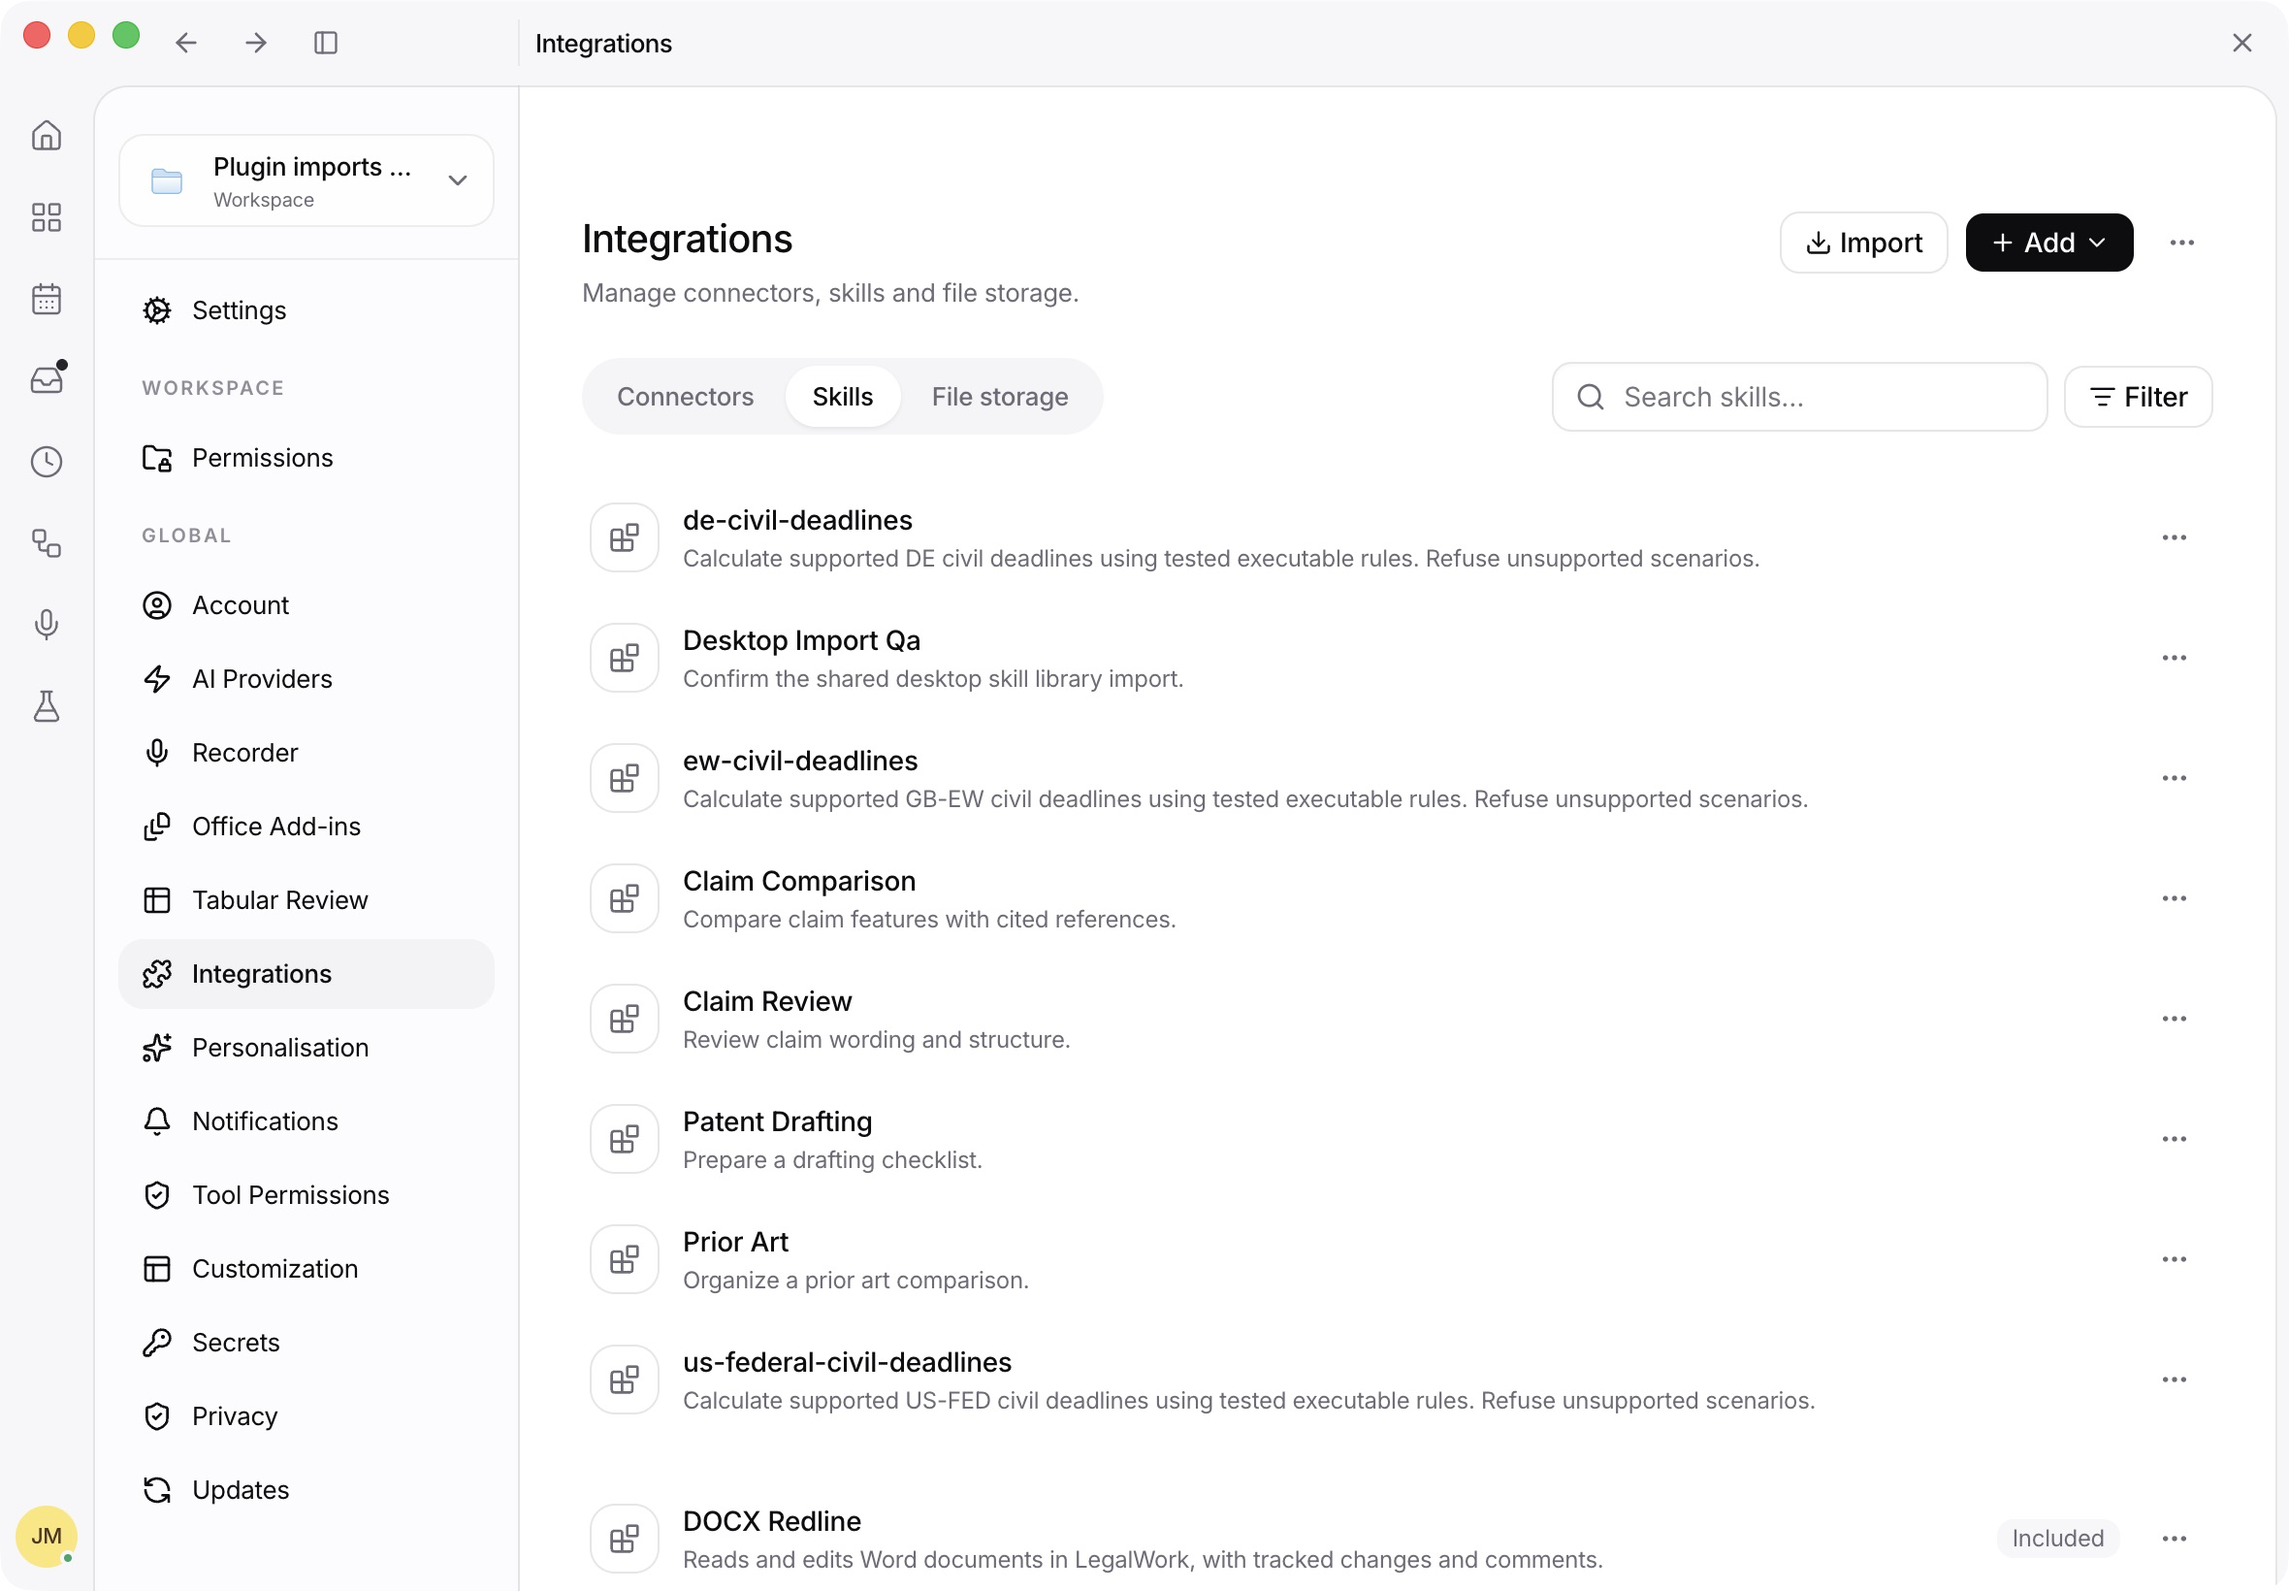
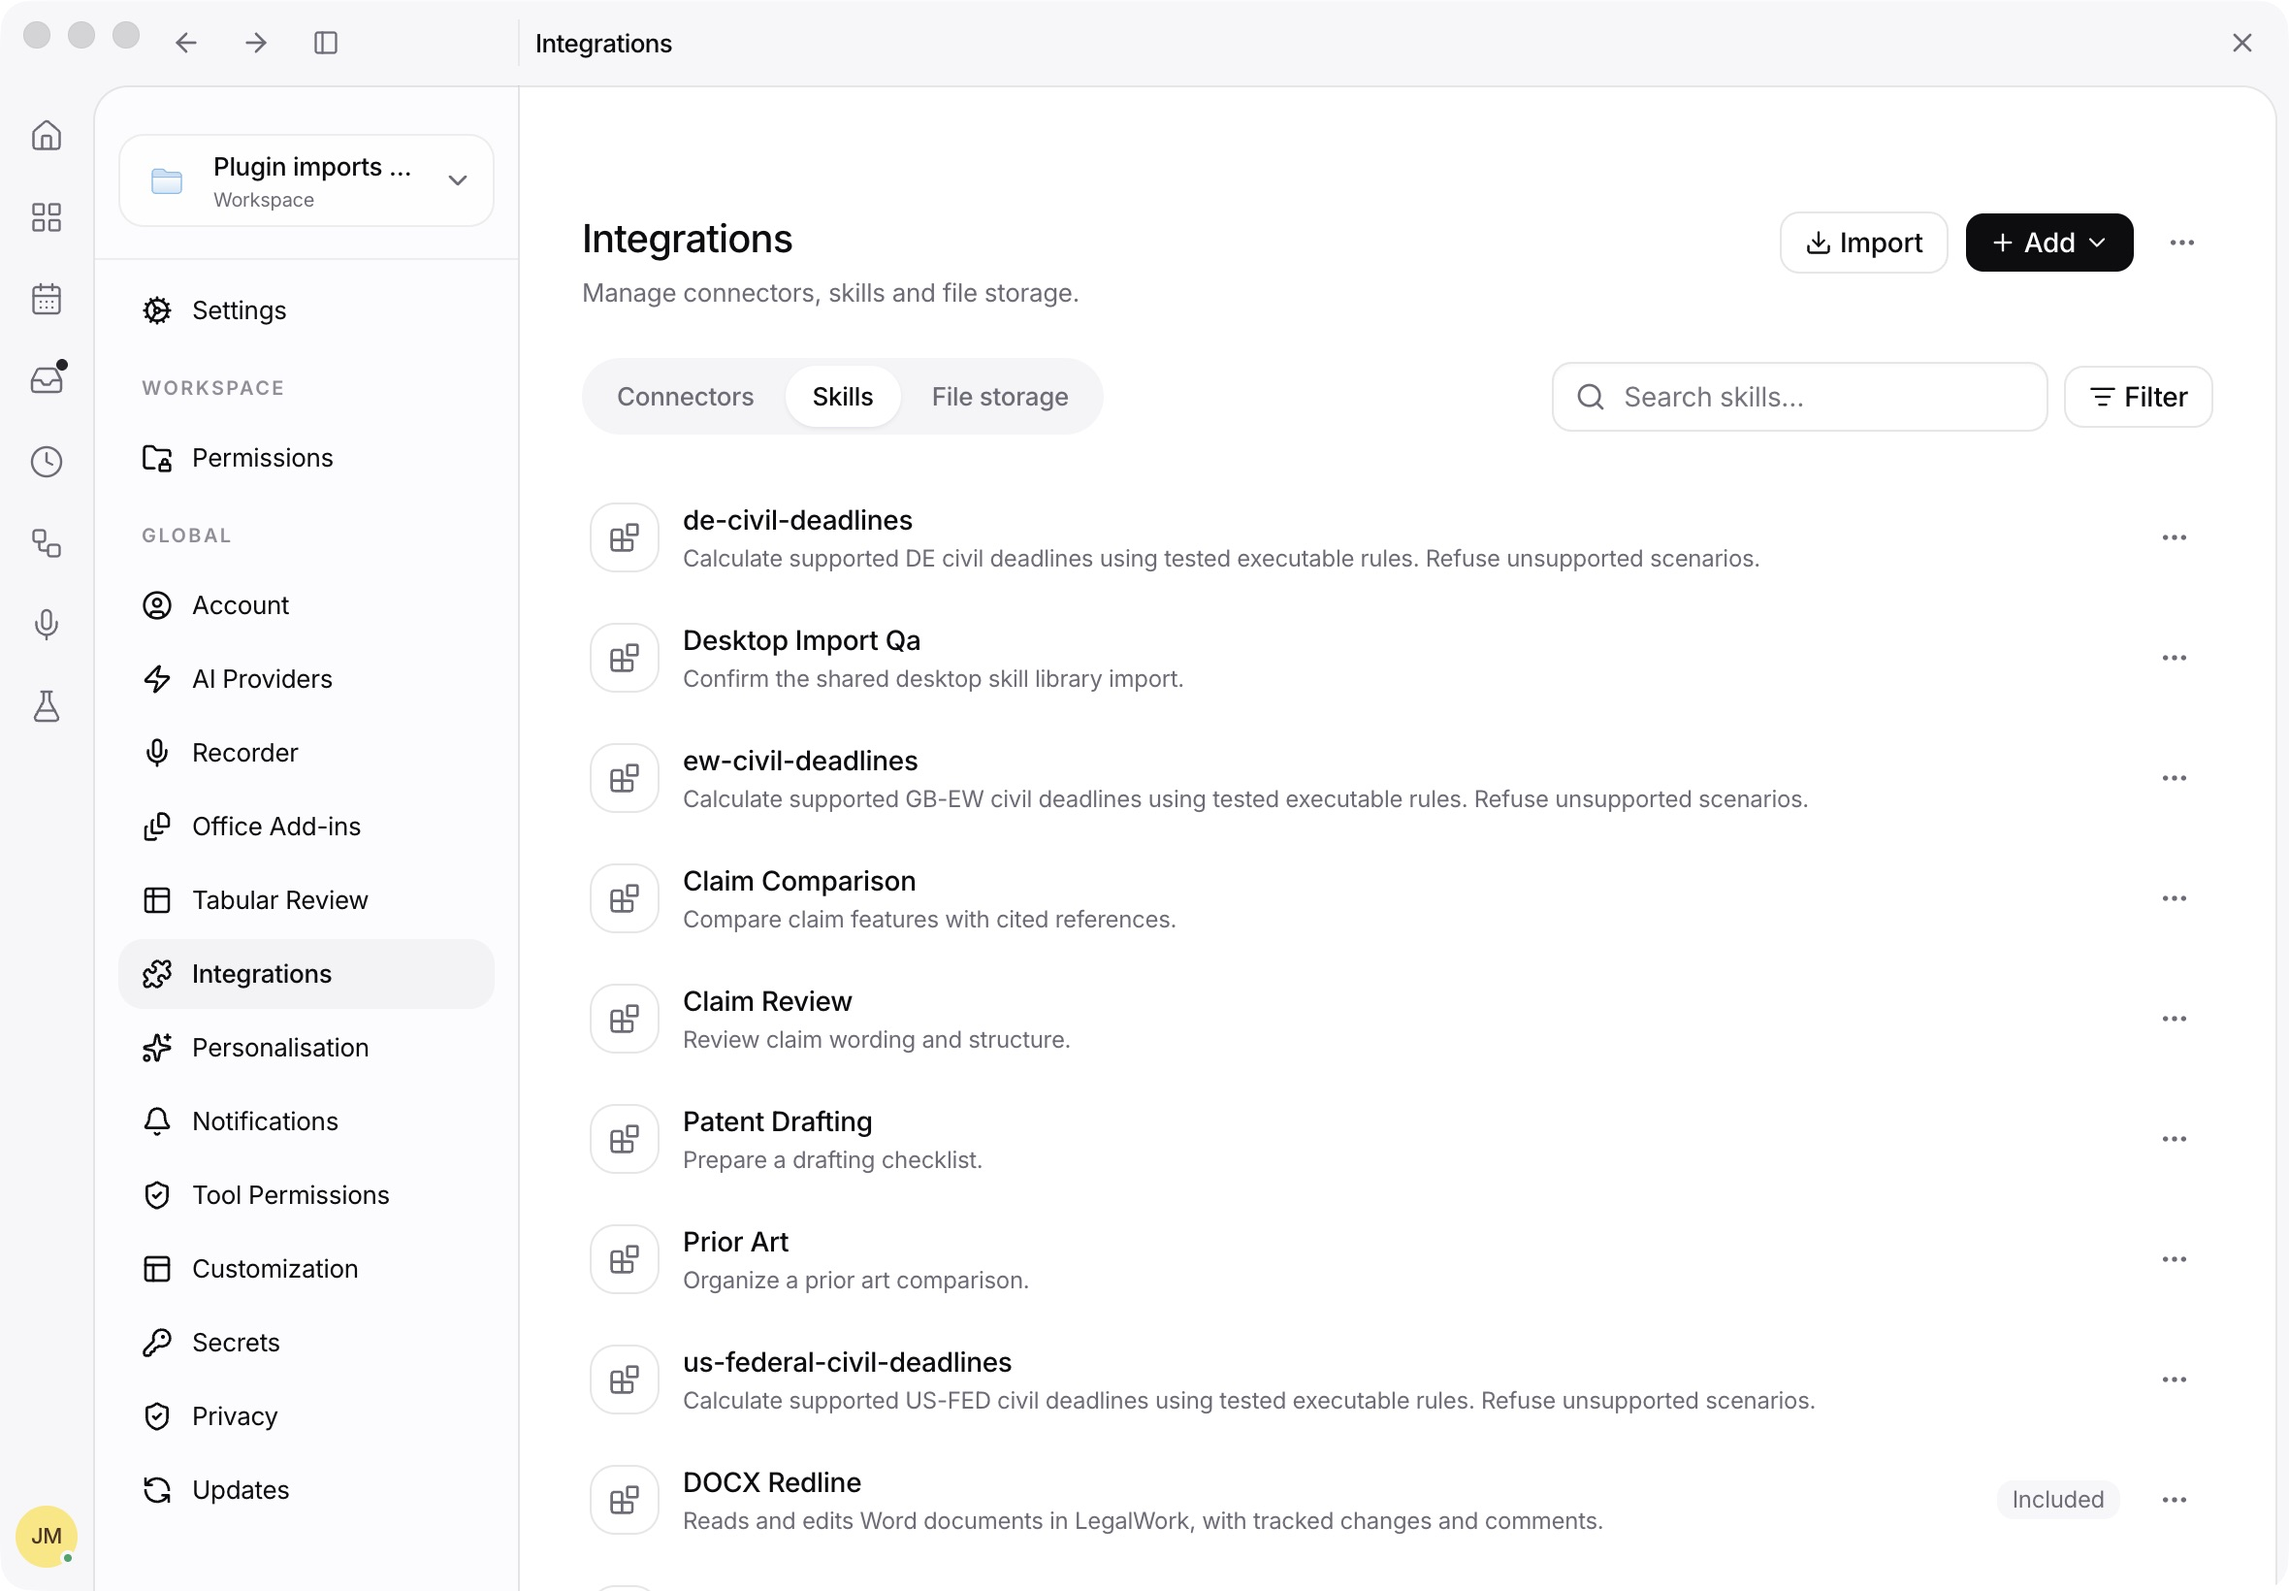
Use consistent spacing across skill library sections

Changed region(s): [[0.2475, 0.9018, 0.6805, 0.9951], [0.0, 0.0, 0.0619, 0.0311], [0.897, 0.9329, 0.928, 0.964]]

diff --git a/apps/app/src/react-app/domains/settings/pages/skills-view.tsx b/apps/app/src/react-app/domains/settings/pages/skills-view.tsx
@@ -656,7 +656,7 @@ export function SkillsView(props: SkillsViewProps) {
   };
 
   return (
-    <section className={isWorkflowsView ? "space-y-8 w-full max-w-5xl" : "space-y-6 w-full max-w-5xl"}>
+    <section className={isWorkflowsView ? "space-y-8 w-full max-w-5xl" : libraryLayout ? "space-y-1 w-full max-w-5xl" : "space-y-6 w-full max-w-5xl"}>
       <div className={isWorkflowsView ? "space-y-7" : "space-y-5"}>
         <div className={libraryLayout ? "contents" : "flex flex-wrap items-start justify-between gap-4"}>
           <div className={libraryLayout ? "hidden" : "min-w-0 flex-1 basis-64"}>

diff --git a/apps/app/src/react-app/domains/settings/pages/hub-download-section.tsx b/apps/app/src/react-app/domains/settings/pages/hub-download-section.tsx
@@ -304,7 +304,7 @@ export function HubDownloadSection({
   }
 
   return (
-    <div className={kind === "workflow" ? "flex h-full min-h-0 flex-col gap-2" : "space-y-2"}>
+    <div className={kind === "workflow" ? "flex h-full min-h-0 flex-col gap-2" : library ? "space-y-1 empty:hidden" : "space-y-2"}>
       {library ? <>
         {listQuery.isLoading ? <p role="status" className="text-sm text-muted-foreground">{t("firm_hub.loading")}</p> : null}
         {listQuery.error ? <p role="alert" className="text-sm text-destructive">{listQuery.error.message}</p> : null}

diff --git a/docs/plugin-imports.md b/docs/plugin-imports.md
@@ -86,6 +86,8 @@ Import, Add and More use the same styles and positions. Add offers Connector, Sk
 
 Rows use the same icon, name, description and action menu. View details comes first, followed by supported Edit, Export and Share actions, then separated Remove. Sharing reviews only the selected item. Optional team membership retains its confirmation, installed team skills retain their read-only resource viewer, and automatic items remain firm-managed. Connector account/enablement controls and storage membership stay in details. Unavailable expand arrows, Ready/Paused labels, the sync indicator and the global project-availability badge are removed. Team empty states consistently say no items have been shared by your firm yet, without extra explanatory paragraphs.
 
+Personal, team and built-in skills use the same row spacing across their list boundaries. The old section margin is removed in the embedded library, and an empty team catalogue contributes no blank space. Native Electron verified the personal-to-built-in boundary; the focused 20-test suite and app type checking passed again.
+
 Latest checks:
 
 - `pnpm --filter @legalwork/app exec bun test tests/plugin-import-buttons.test.tsx tests/integration-libraries.test.tsx tests/mcp-library.test.tsx` — 20 passed. Coverage includes source isolation, complete team catalogue rendering and deduplication, embedded search, built-in command search and storage ownership restrictions.
